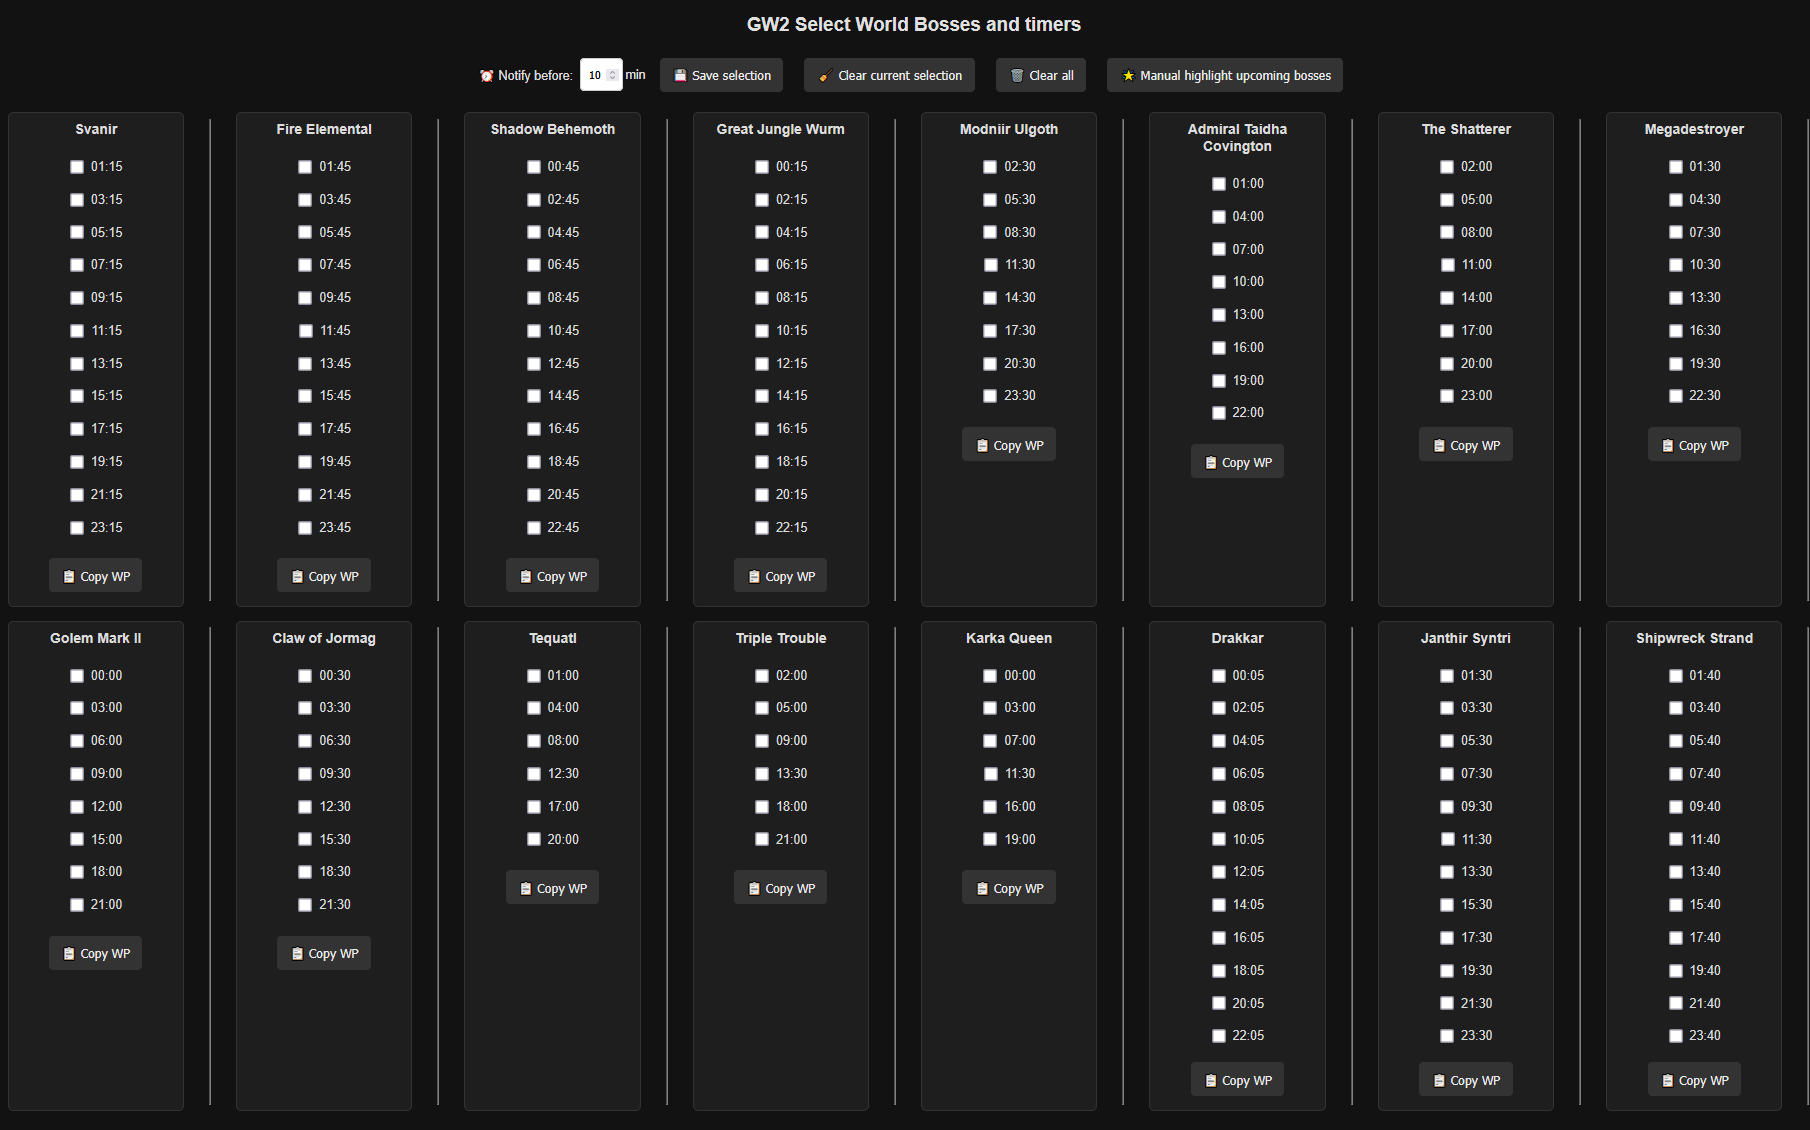
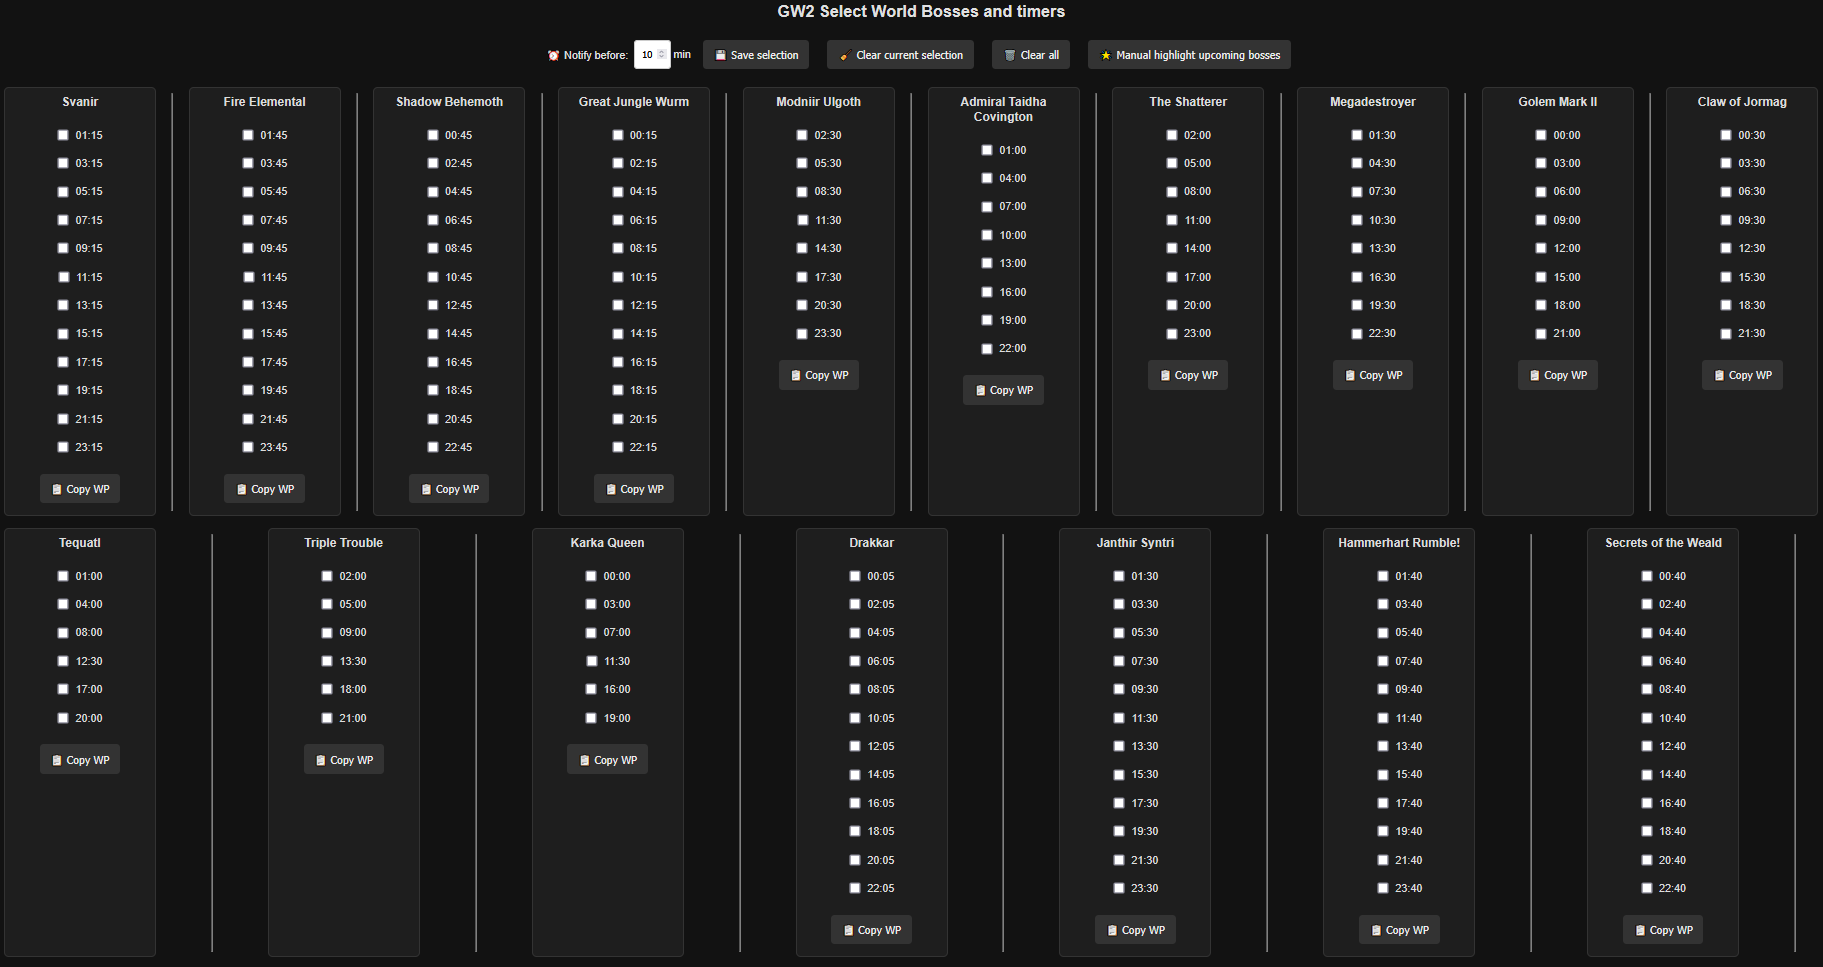
+update wb

diff --git a/public/index.html b/public/index.html
@@ -178,8 +178,8 @@
         });
 
         let modoDestacadoActivo = false; // para saber si el modo highlight esta activo
-        const margenMin = 0; // minutos antes (si es negativo) de la hora actual
-        const margenMax = 30; // minutos despues de la hora actual
+        const margenMin = -5; // minutos antes (si es negativo) de la hora actual
+        const margenMax = 30; // minutos despues de la hora actual, no puede ser menor al margen minimo
 
         document.getElementById('btn-destacar').addEventListener('click', destacarHorasProximas);
 
@@ -189,10 +189,26 @@
                 boton.textContent = '❌ Remove highlights';
             } else {
                 boton.textContent = `🌟 Manual highlight upcoming bosses`;
-                boton.title = `Range: from now until ${margenMax} min`;
+                const ahora = new Date();
+                // Crear las fechas de inicio y fin segun los rangos
+                const inicio = new Date(ahora.getTime() + margenMin * 60 * 1000);
+                const fin = new Date(ahora.getTime() + margenMax * 60 * 1000);
+                let textoRango;
+                if (margenMin < 0) {
+                    textoRango = `Range: from ${formatearHora(inicio)} (${margenMin} min before now) to ${formatearHora(fin)} (+${margenMax} min after now)`;
+                } else {
+                    textoRango = `Range: from ${formatearHora(inicio)} (now +${margenMin} min) to ${formatearHora(fin)} (now +${margenMax} min)`;
+                }
+                boton.title = textoRango;
             }
         }
 
+        // Formatear la hora (HH:MM)
+        function formatearHora(fecha) {
+            return fecha.toLocaleTimeString([], { hour: '2-digit', minute: '2-digit' });
+        }
+
+        // Para destacar horas
         function destacarHorasProximas() {
             const boton = document.getElementById('btn-destacar');
 

diff --git a/bosses.js b/bosses.js
@@ -92,9 +92,14 @@ const eventosOriginales = [
     puntoRuta: "[&BCoPAAA=]"
   },
   {
-    nombre: "Shipwreck Strand",
+    nombre: "Hammerhart Rumble!",
     horarios: ["00:40", "02:40", "04:40", "06:40", "08:40", "10:40", "12:40", "14:40", "16:40", "18:40", "20:40", "22:40"],
     puntoRuta: "[&BJEPAAA=]"
+  },
+  {
+    nombre: "Secrets of the Weald",
+    horarios: ["01:40", "03:40", "05:40", "07:40", "09:40", "11:40", "13:40", "15:40", "17:40", "19:40", "21:40", "23:40"],
+    puntoRuta: "[&BJ4PAAA=]"
   }
 ];
 
